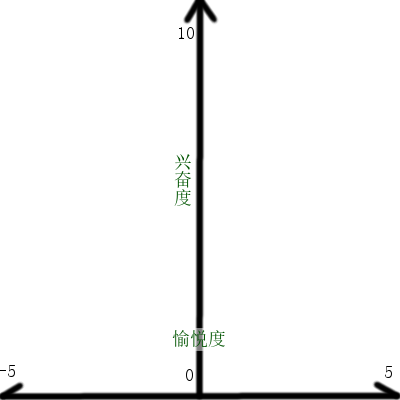
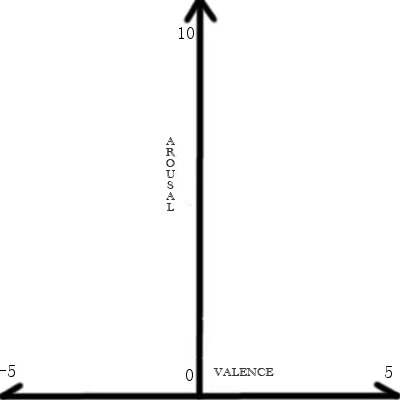
Latest English Version

Changed region(s): [[0.42, 0.81, 0.57, 0.9], [0.42, 0.33, 0.48, 0.54], [0.54, 0.9, 0.69, 0.96]]

diff --git a/src/pages/Home.jsx b/src/pages/Home.jsx
@@ -358,10 +358,10 @@ class Home extends Component {
         <div className='mainPage'>
           <div className='introclass'>
             <p className='sTitle'>
-              Congratulations, you have completed this round of the experiment
+            Congratulations on completing this round
             </p>
             <p className='hint'>
-              Current experiment progress: {this.props.expNum} / 4 <br />
+            Current progress: {this.props.expNum} / 4 <br />
               <br />
               Please complete the remaining parts before
               {/* {isNaN(this.props.endDate.getMonth())
@@ -384,7 +384,7 @@ class Home extends Component {
                     color: '#dd0000',
                   }}
                 >
-                  Please select your most satisfying music for this round:
+                  Select your most satisfied music:
                 </p>
               )}
               {this.state.favorite !== 0 && (
@@ -396,7 +396,7 @@ class Home extends Component {
                     display: 'inline',
                   }}
                 >
-                  Please select your most satisfying music for this round:
+                  Select your most satisfied music:
                 </p>
               )}
               <select
@@ -422,8 +422,7 @@ class Home extends Component {
                     color: '#dd0000',
                   }}
                 >
-                  Please provide an overall rating for the music recommended in
-                  this round:
+                  Your overall rate for this round:
                 </p>
               )}
               {this.state.overallRate !== 0 && (
@@ -435,8 +434,7 @@ class Home extends Component {
                     display: 'inline',
                   }}
                 >
-                  Please provide an overall rating for the music recommended in
-                  this round:
+                  Your overall rate for this round:
                 </p>
               )}
               <select
@@ -459,7 +457,7 @@ class Home extends Component {
                 className='testButtonDisplay'
                 onClick={() => this.endTest()}
               >
-                Complete the experiment and log out.
+                Complete and log out
               </Button>
             </div>
           </div>
@@ -496,7 +494,7 @@ class Home extends Component {
       return (
         <div className='mainPage'>
           <p className='sTitle'>
-            Please select the current weather conditions you are experiencing:
+          Select the current weather condition:
           </p>
           <select
             className='selectWeather'
@@ -513,7 +511,7 @@ class Home extends Component {
             <option value={2}>Hot</option>
             <option value={3}>Cold</option>
           </select>
-          <p className='sTitle'>Please select your current mood:</p>
+          <p className='sTitle'>Select your current mood:</p>
 
           <select
             className='selectContext'
@@ -538,7 +536,7 @@ class Home extends Component {
             </option>
             <option value={4}>Lovely: Romance, Gathering...</option>
           </select>
-          <p className='sTitle'>Please enter your current emotions:</p>
+          <p className='sTitle'>Enter your current Emotion:</p>
 
           <div
             style={{
@@ -563,7 +561,7 @@ class Home extends Component {
         <div className='mainPage'>
           <div className='inTest'>
             <p className='sTitle'>
-              Please listen to the music. {this.state.songnum}/ 4
+            Listen to the music  {this.state.songnum}/ 4
             </p>
             <div
               style={{
@@ -589,7 +587,7 @@ class Home extends Component {
       return (
         <div className='mainPage'>
           <div className='inTest'>
-            <p className='sTitle stsm'>Please enter your current emotions:</p>
+            <p className='sTitle stsm'>Enter your current emotion:</p>
             <p className='hint itsm'>
               (The blue dot serves as a reference for the previous input)
             </p>

diff --git a/src/pages/VAcanvas.jsx b/src/pages/VAcanvas.jsx
@@ -196,7 +196,7 @@ class VAcanvas extends Component {
                     display: 'inline',
                   }}
                 >
-                  Please rate the recommendation for this music segment:
+                  Rate your satisfaction with the music:
                 </p>
               )}
               {this.state.rateNotFilled && (
@@ -209,7 +209,7 @@ class VAcanvas extends Component {
                     color: '#dd0000',
                   }}
                 >
-                  Please rate the recommendation for this music segment:
+                  Rate your satisfaction with the music:
                 </p>
               )}
               <select
@@ -235,8 +235,7 @@ class VAcanvas extends Component {
                     display: 'inline',
                   }}
                 >
-                  Please select your level of familiarity with this music
-                  segment:
+                  Select your familiarity with the music:
                 </p>
               )}
               {this.state.rateNotFilled && (
@@ -249,8 +248,7 @@ class VAcanvas extends Component {
                     color: '#dd0000',
                   }}
                 >
-                  Please select your level of familiarity with this music
-                  segment:
+                  Select your familiarity with the music:
                 </p>
               )}
               <select
@@ -282,7 +280,7 @@ class VAcanvas extends Component {
                 className='testButtonDisplay'
                 onClick={() => this.handleButtonClick()}
               >
-                Continue the experiment.
+                Continue
               </Button>
             </div>
           )}

diff --git a/src/pages/MP3.jsx b/src/pages/MP3.jsx
@@ -120,7 +120,7 @@ class MP3 extends Component {
         <br />
         <InputGroup variant='dark'>
           <InputGroup.Prepend>
-            <InputGroup.Text>Music Memories</InputGroup.Text>
+            <InputGroup.Text>Memory</InputGroup.Text>
           </InputGroup.Prepend>
           <FormControl
             as='textarea'
@@ -133,13 +133,12 @@ class MP3 extends Component {
         {!this.state.writingComment && this.state.status === 0 && (
           <div>
             <p>
-              — Please start entering your memories before the music ends and
-              the page automatically redirects —
+            Start input your memory before the music ends.
             </p>
             <br />
             <br />
             <p>
-              If the music doesn't load properly, you can click
+            If the music does not play, please click 
               <a
                 href={this.props.url}
                 target='_blank'
@@ -147,17 +146,17 @@ class MP3 extends Component {
               >
                 here
               </a>
-              to access the audio source
+              to download the music
             </p>
             <p>
-              and after listening, click
+            and after listening, click 
               <a
                 onClick={() => this.props.audioEnd(this.state.writingComment)}
                 style={{ color: 'blue' }}
               >
                 here
               </a>
-              to proceed to the next stage
+              to continue.
             </p>
           </div>
         )}

diff --git a/src/css/va.css b/src/css/va.css
@@ -16,6 +16,7 @@
   border-color: rgba(255, 255, 255, 0.5);
   border-radius: 20px;
   font-size: 36px;
+  color: rgb(36, 35, 35);
 }
 
 @media (max-width: 700px) {
